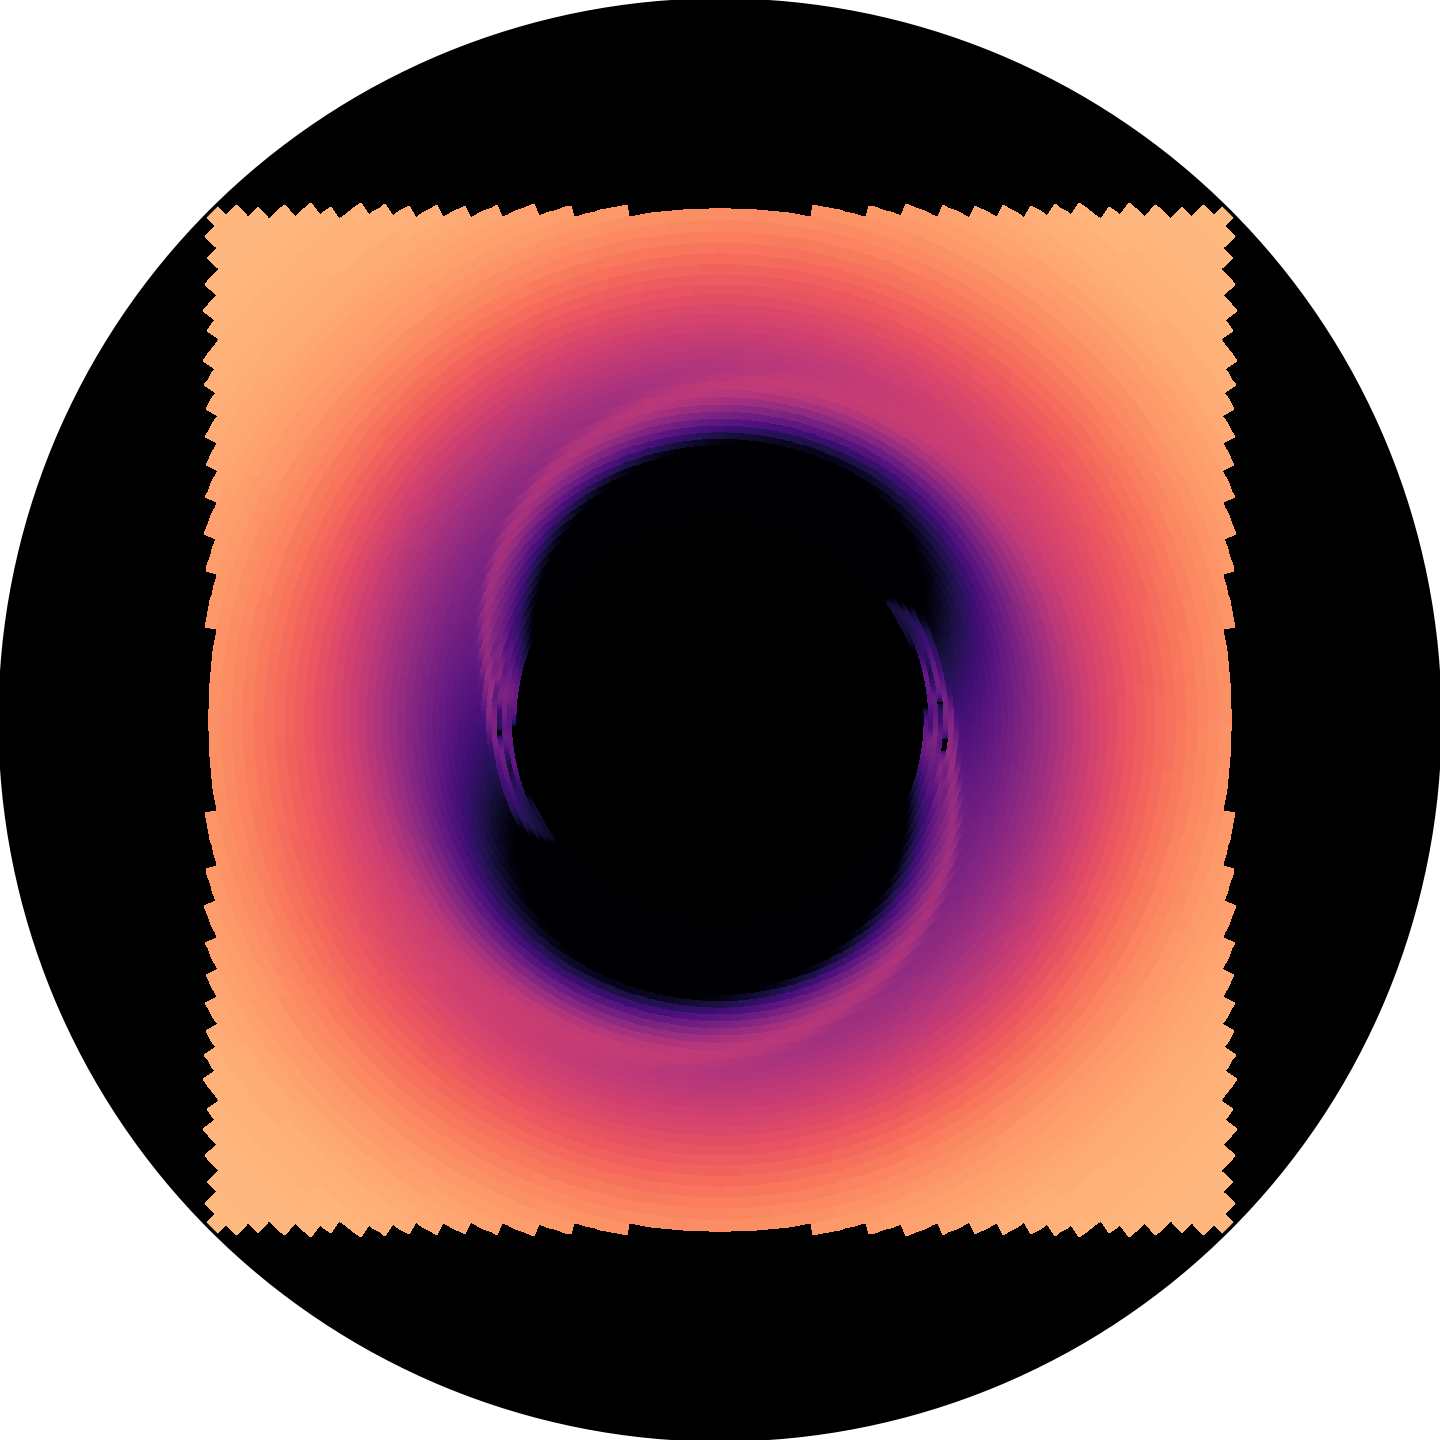
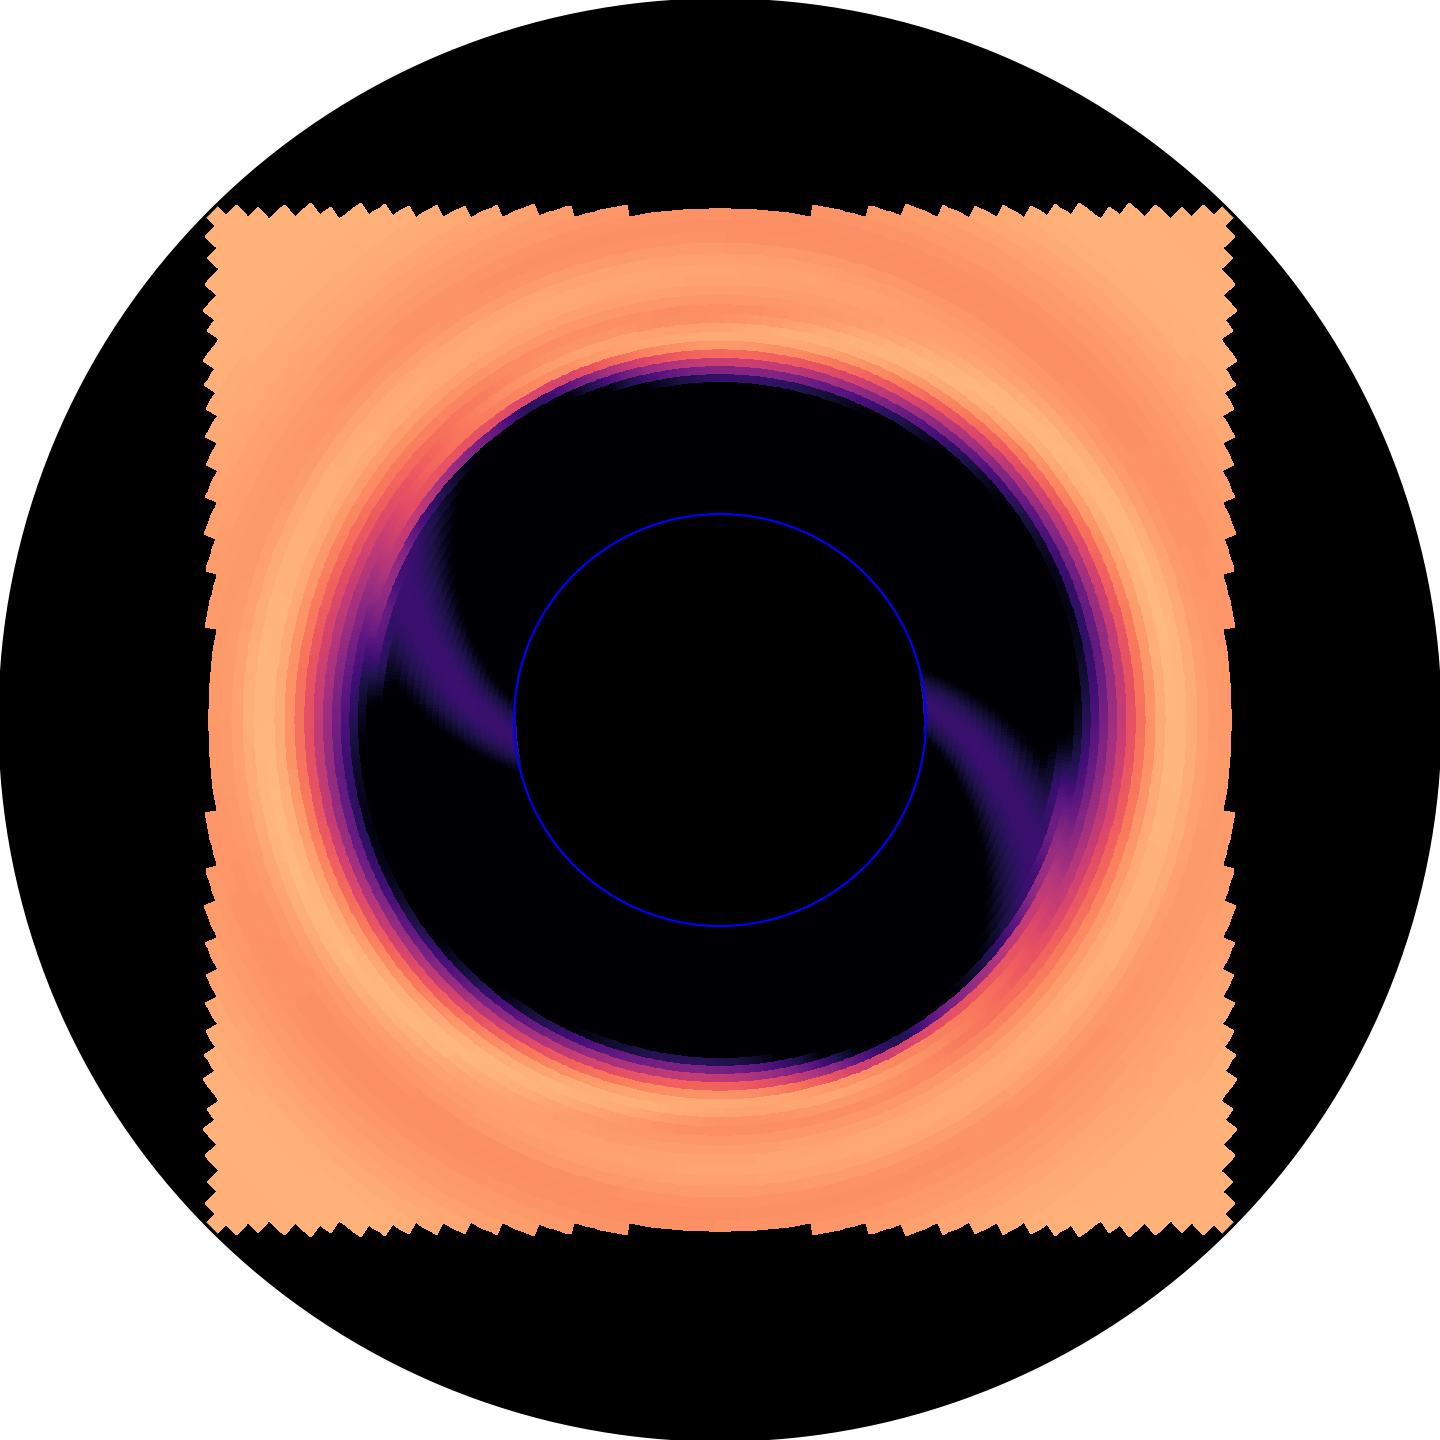
binary eccentricity vector diagnostic

Changed region(s): [[0.1562, 0.1562, 0.8438, 0.8438]]

diff --git a/Binary.py b/Binary.py
@@ -16,19 +16,19 @@ class Binary(HD_2D):
         self.eps = 0.05 * self.a  # gravitational softening
         self.omega_B = 1
         if coords == "cartesian":
-            self.bh1_x, self.bh1_y = self.a / 2, 0
-            self.bh2_x, self.bh2_y = -self.a / 2, 0
+            self.x_bh1, self.y_bh1 = self.a / 2, 0
+            self.x_bh2, self.y_bh2 = -self.a / 2, 0
         elif coords == "polar":
-            self.bh1_r, self.bh1_theta = self.a / 2, 0
-            self.bh2_r, self.bh2_theta = self.a / 2, np.pi
+            self.r_bh1, self.theta_bh1 = self.a / 2, 0
+            self.r_bh2, self.theta_bh2 = self.a / 2, np.pi
         self.ts = []
         self.accr_1 = []
         self.accr_2 = []
-        nu = 1e-3 * self.a ** 2 * self.omega_B
+        nu = 1e-3 * (self.a ** 2) * self.omega_B
 
         super().__init__(gamma, nu=nu, coords=coords, resolution=resolution, x1_range=x1_range,
                          x2_range=x2_range, solver=solver, logspace=logspace, high_space=high_space)
-
+        
         if self.coords == "cartesian":
             self.setup_cartesian()
 
@@ -46,11 +46,12 @@ class Binary(HD_2D):
     def c_s(self, r=None, theta=None):
         if r is None:
             r, theta = self.grid[:, :, 0], self.grid[:, :, 1]
-        dist1 = np.sqrt(r ** 2 + self.bh1_r ** 2 - 2 * r *
-                        self.bh1_r * np.cos(theta - self.bh1_theta))
-        dist2 = np.sqrt(r ** 2 + self.bh2_r ** 2 - 2 * r *
-                        self.bh2_r * np.cos(theta - self.bh2_theta))
-        return np.sqrt((self.G * (self.M / 2) / np.sqrt(dist1 ** 2 + self.eps ** 2) + self.G * (self.M / 2) / np.sqrt(dist2 ** 2 + self.eps ** 2)) / (self.mach ** 2))
+        dist1 = np.sqrt(r ** 2 + self.r_bh1 ** 2 - 2 * r *
+                        self.r_bh1 * np.cos(theta - self.theta_bh1))
+        dist2 = np.sqrt(r ** 2 + self.r_bh2 ** 2 - 2 * r *
+                        self.r_bh2 * np.cos(theta - self.theta_bh2))
+        cs = np.sqrt((self.G * (self.M / 2) / np.sqrt(dist1 ** 2 + self.eps ** 2) + self.G * (self.M / 2) / np.sqrt(dist2 ** 2 + self.eps ** 2)) / (self.mach ** 2))
+        return cs
 
     def gaussian_kernel(self, r):
         A, Delta = 10, self.a / 50
@@ -78,13 +79,13 @@ class Binary(HD_2D):
         # update black hole positions
         delta = np.pi
         if self.coords == "cartesian":
-            self.bh1_x = (self.a / 2) * np.cos(self.omega_B * t)
-            self.bh1_y = (self.a / 2) * np.sin(self.omega_B * t)
-            self.bh2_x = (self.a / 2) * np.cos(self.omega_B * t + delta)
-            self.bh2_y = (self.a / 2) * np.sin(self.omega_B * t + delta)
+            self.x_bh1 = (self.a / 2) * np.cos(self.omega_B * t)
+            self.y_bh1 = (self.a / 2) * np.sin(self.omega_B * t)
+            self.x_bh2 = (self.a / 2) * np.cos(self.omega_B * t + delta)
+            self.y_bh2 = (self.a / 2) * np.sin(self.omega_B * t + delta)
         elif self.coords == "polar":
-            self.bh1_theta = self.omega_B * t
-            self.bh2_theta = self.omega_B * t + delta
+            self.theta_bh1 = (self.omega_B * t) % (2 * np.pi)
+            self.theta_bh2 = (self.omega_B * t + delta) % (2 * np.pi)
 
         # set buffer velocities
         self.buffer()
@@ -119,7 +120,7 @@ class Binary(HD_2D):
         omega = ((omega_naught ** -4) + (self.omega_B ** -4)) ** (-1/4)
         v_theta = omega * r
 
-        p = rho * (self.c_s() ** 2) / self.gamma
+        p = rho * (self.c_s() ** 2)
 
         self.U = np.array([
             rho,
@@ -128,15 +129,16 @@ class Binary(HD_2D):
             E(self.gamma, rho, p, v_r, v_theta)
         ]).transpose((1, 2, 0))
 
-        def BH_gravity(U, bh_r, bh_theta):
+        def BH_gravity(U, r_bh, theta_bh):
             # distance from each zone to bh
-            delta_theta = theta - bh_theta
-            dist = np.sqrt(r ** 2 + bh_r ** 2 - 2 * r *
-                           bh_r * np.cos(delta_theta))
+            delta_theta = theta - theta_bh
+            delta_theta = (delta_theta + np.pi) % (2 * np.pi) - np.pi
+            dist = np.sqrt(r ** 2 + r_bh ** 2 - 2 * r *
+                           r_bh * np.cos(delta_theta))
             g = -self.G * (self.M / 2) / (dist ** 2 + self.eps ** 2)
 
-            g_r = g * (r - bh_r * np.cos(delta_theta)) / dist
-            g_theta = g * (bh_r * np.sin(delta_theta)) / dist
+            g_r = g * (r - r_bh * np.cos(delta_theta)) / dist
+            g_theta = g * (r_bh * np.sin(delta_theta)) / dist
 
             S = np.zeros_like(U)
             rho, u, v, p = get_prims(self.gamma, U)
@@ -148,7 +150,7 @@ class Binary(HD_2D):
             return S
 
         def gravity(U):
-            return BH_gravity(U, self.bh1_r, self.bh1_theta) + BH_gravity(U, self.bh2_r, self.bh2_theta)
+            return BH_gravity(U, self.r_bh1, self.theta_bh1) + BH_gravity(U, self.r_bh2, self.theta_bh2)
 
         self.add_source(gravity)
 
@@ -174,10 +176,11 @@ class Binary(HD_2D):
             E(self.gamma, rho, p, u, v)
         ]).transpose((1, 2, 0))
 
-        def BH_gravity(U, bh_x, bh_y):
-            dx, dy = x - bh_x, y - bh_y
+        def BH_gravity(U, x_bh, y_bh):
+            dx, dy = x - x_bh, y - y_bh
             dist = np.sqrt(dx ** 2 + dy ** 2)  # distance from each zone to bh
-            g = - 2 * np.pi * self.G * (self.M / 2) / (dist ** 2 + self.eps ** 2)
+            g = - 2 * np.pi * self.G * \
+                (self.M / 2) / (dist ** 2 + self.eps ** 2)
 
             g_x, g_y = (dx / (dist + self.eps)) * \
                 g, (dy / (dist + self.eps)) * g
@@ -191,7 +194,7 @@ class Binary(HD_2D):
             return S
 
         def gravity(U):
-            return BH_gravity(U, self.bh1_x, self.bh1_y) + BH_gravity(U, self.bh2_x, self.bh2_y)
+            return BH_gravity(U, self.x_bh1, self.y_bh1) + BH_gravity(U, self.x_bh2, self.y_bh2)
 
         self.add_source(gravity)
 
@@ -205,7 +208,7 @@ class Binary(HD_2D):
             return S
 
         def kernel(U):
-            return BH_kernel(U, self.bh1_x, self.bh1_y) + BH_kernel(U, self.bh2_x, self.bh2_y)
+            return BH_kernel(U, self.x_bh1, self.y_bh1) + BH_kernel(U, self.x_bh2, self.y_bh2)
 
         self.add_source(kernel)
 
@@ -226,7 +229,7 @@ class Binary(HD_2D):
     def get_accr1_rate(self):
         g = self.num_g
         x, y = self.grid[:, :, 0], self.grid[:, :, 1]
-        dx, dy = x - self.bh1_x, y - self.bh1_y
+        dx, dy = x - self.x_bh1, y - self.y_bh1
         r = np.sqrt(dx ** 2 + dy ** 2)
         rho = self.U[:, :, 0]
         rate = np.sum(np.minimum(
@@ -237,7 +240,7 @@ class Binary(HD_2D):
     def get_accr2_rate(self):
         g = self.num_g
         x, y = self.grid[:, :, 0], self.grid[:, :, 1]
-        dx, dy = x - self.bh2_x, y - self.bh2_y
+        dx, dy = x - self.x_bh2, y - self.y_bh2
         r = np.sqrt(dx ** 2 + dy ** 2)
         rho = self.U[:, :, 0]
         rate = np.sum(np.minimum(
@@ -247,12 +250,12 @@ class Binary(HD_2D):
 
     def get_torque1(self):
         g = self.num_g
-        rho = self.U[:, :, 0][g:-g, g:-g]
+        rho = self.U[g:-g, g:-g, 0]
 
         if self.coords == "cartesian":
             x, y = self.grid[:, :, 0], self.grid[:, :, 1]
-            bh_x, bh_y = self.bh1_x, self.bh1_y
-            dx, dy = x - bh_x, y - bh_y
+            x_bh, y_bh = self.x_bh1, self.y_bh1
+            dx, dy = x - x_bh, y - y_bh
             r = np.sqrt(dx ** 2 + dy ** 2)  # distance from each zone to bh
             dA = self.dx1 * self.dx2
             Fg = (self.G * (self.M / 2) / (r ** 2 + self.eps ** 2)) * rho * dA
@@ -264,10 +267,11 @@ class Binary(HD_2D):
             T = np.sum((self.a / 2) * Fg_theta)
         elif self.coords == "polar":
             r, theta = self.grid[:, :, 0], self.grid[:, :, 1]
-            bh_r, bh_theta = self.bh1_r, self.bh1_theta
-            delta_theta = theta - bh_theta
-            dist = np.sqrt(r ** 2 + bh_r ** 2 - 2 * r *
-                           bh_r * np.cos(delta_theta))
+            r_bh, theta_bh = self.r_bh1, self.theta_bh1
+            delta_theta = theta - theta_bh
+            delta_theta = (delta_theta + np.pi) % (2 * np.pi) - np.pi
+            dist = np.sqrt(r ** 2 + r_bh ** 2 - 2 * r *
+                           r_bh * np.cos(delta_theta))
             R_interf, _ = np.meshgrid(self.x1_interf, self.x2, indexing="ij")
             x1_l, x1_r = R_interf[:-1, :], R_interf[1:, :]
             dx1 = x1_r - x1_l
@@ -275,7 +279,7 @@ class Binary(HD_2D):
             dA = r * dx1 * dx2  # dA = rdrdtheta
 
             Fg = (self.G * (self.M / 2) / (dist ** 2 + self.eps ** 2)) * rho * dA
-            Fg_theta = Fg * (bh_r * np.sin(delta_theta)) / dist 
+            Fg_theta = Fg * (r_bh * np.sin(delta_theta)) / dist
             T = np.sum((self.a / 2) * Fg_theta)
 
         return T
@@ -286,8 +290,8 @@ class Binary(HD_2D):
 
         if self.coords == "cartesian":
             x, y = self.grid[:, :, 0], self.grid[:, :, 1]
-            bh_x, bh_y = self.bh2_x, self.bh2_y
-            dx, dy = x - bh_x, y - bh_y
+            x_bh, y_bh = self.x_bh2, self.y_bh2
+            dx, dy = x - x_bh, y - y_bh
             r = np.sqrt(dx ** 2 + dy ** 2)  # distance from each zone to bh
             dA = self.dx1 * self.dx2
             Fg = (self.G * (self.M / 2) / (r ** 2 + self.eps ** 2)) * rho * dA
@@ -300,10 +304,11 @@ class Binary(HD_2D):
             T = np.sum((self.a / 2) * Fg_theta)
         elif self.coords == "polar":
             r, theta = self.grid[:, :, 0], self.grid[:, :, 1]
-            bh_r, bh_theta = self.bh2_r, self.bh2_theta
-            delta_theta = theta - bh_theta
-            dist = np.sqrt(r ** 2 + bh_r ** 2 - 2 * r *
-                           bh_r * np.cos(delta_theta))
+            r_bh, theta_bh = self.r_bh2, self.theta_bh2
+            delta_theta = theta - theta_bh
+            delta_theta = (delta_theta + np.pi) % (2 * np.pi) - np.pi
+            dist = np.sqrt(r ** 2 + r_bh ** 2 - 2 * r *
+                           r_bh * np.cos(delta_theta))
             R_interf, _ = np.meshgrid(self.x1_interf, self.x2, indexing="ij")
             x1_l, x1_r = R_interf[:-1, :], R_interf[1:, :]
             dx1 = x1_r - x1_l
@@ -311,7 +316,30 @@ class Binary(HD_2D):
             dA = r * dx1 * dx2  # dA = rdrdtheta
 
             Fg = (self.G * (self.M / 2) / (dist ** 2 + self.eps ** 2)) * rho * dA
-            Fg_theta = Fg * (bh_r * np.sin(delta_theta)) / dist 
+            Fg_theta = Fg * (r_bh * np.sin(delta_theta)) / dist
             T = np.sum((self.a / 2) * Fg_theta)
 
         return T
+
+    # TODO: cartesian coordinate version
+    def get_eccentricity(self):
+        g = self.num_g
+        rho, vr, vtheta, p = get_prims(self.gamma, self.U[g:-g, g:-g])
+        r, theta = self.grid[:, :, 0], self.grid[:, :, 1]
+        R_interf, _ = np.meshgrid(self.x1_interf, self.x2, indexing="ij")
+        x1_l, x1_r = R_interf[:-1, :], R_interf[1:, :]
+        dx1 = x1_r - x1_l
+        dx2 = self.x2[1] - self.x2[0]
+        dA = r * dx1 * dx2
+        e_x = (r * vr * vtheta / (self.G * self.M)) * np.sin(theta) + \
+            (((r * vtheta ** 2) / self.G * self.M) - 1) * np.cos(theta)
+        e_y = -(r * vr * vtheta / (self.G * self.M)) * np.cos(theta) + \
+            (((r * vtheta ** 2) / self.G * self.M) - 1) * np.sin(theta)
+
+        bounds = r >= self.a & r <= 6 * self.a
+        ec_x = np.sum(e_x[bounds] * rho[bounds] * dA[bounds]) / \
+            (35 * np.pi * self.Sigma_0 * (self.a ** 2))
+        ec_y = np.sum(e_y[bounds] * rho[bounds] * dA[bounds]) / \
+            (35 * np.pi * self.Sigma_0 * (self.a ** 2))
+
+        return (ec_x, ec_y)

diff --git a/HD/solvers.py b/HD/solvers.py
@@ -13,6 +13,10 @@ class Solver(ABC):
         self.coords = coords
         self.x1, self.x2 = x1, x2
         self.x1_interf, self.x2_interf = x1_interf, x2_interf
+        self.x1_g = np.pad(self.x1, (1, 1), mode="constant", constant_values=(
+            self.x1[0] - (self.x1_interf[1] - self.x1_interf[0]), self.x1[-1] + (self.x1_interf[-1] - self.x1_interf[-2])))
+        self.x2_g = np.pad(self.x2, (1, 1), mode="constant", constant_values=(
+            self.x2[0] - (self.x2_interf[1] - self.x2_interf[0]), self.x2[-1] + (self.x2_interf[-1] - self.x2_interf[-2])))
         self.res_x1, self.res_x2 = res
         self.high_order = high_order
 
@@ -115,19 +119,15 @@ class Solver(ABC):
             else:
                 du = (u[g:-g, (g):-(g-1)] - u[g:-g, (g-1):-(g)]) / (dy)
         elif self.coords == "polar":
-            dR = np.diff(self.x1, prepend=0, append=0)
             # try making mesh grid and get r from that to use in denominator of theta derivative
             dtheta = self.x2[1] - self.x2[0]
             if x1:
-                du = np.diff(u[(g-1):-(g-1), g:-g], axis=0) / \
-                    (dR[:, np.newaxis])
-                du[0, :] = np.zeros(len(self.x2))
-                du[-1, :] = np.zeros(len(self.x2))
+                X1, _ = np.meshgrid(self.x1_g, self.x2, indexing="ij")
+                dR = np.diff(X1, axis=0)
+                du = np.diff(u[(g-1):-(g-1), g:-g], axis=0) / dR
             else:
-                du = np.diff(u[g:-g, (g-1):-(g-1)], axis=1) / \
-                    (self.x1[:, np.newaxis] * dtheta)
-                du[:, 0] = np.zeros(len(self.x1))
-                du[:, -1] = np.zeros(len(self.x1))
+                X1, _ = np.meshgrid(self.x1, self.x2_interf, indexing="ij")
+                du = np.diff(u[g:-g, (g-1):-(g-1)], axis=1) / (X1 * dtheta)
         return du
 
     def viscosity(self, rho, u, v):
@@ -176,13 +176,8 @@ class Solver(ABC):
 
     def interface_flux(self, U):
         g = self.num_g
-        # x1 with one ghost layer
-        x1_g = np.pad(self.x1, (1, 1), mode="constant", constant_values=(
-            self.x1[0] - (self.x1_interf[1] - self.x1_interf[0]), self.x1[-1] + (self.x1_interf[-1] - self.x1_interf[-2])))
-        x2_g = np.pad(self.x2, (1, 1), mode="constant", constant_values=(
-            self.x2[0] - (self.x2_interf[1] - self.x2_interf[0]), self.x2[-1] + (self.x2_interf[-1] - self.x2_interf[-2])))
-        X1, X2 = np.meshgrid(x1_g, x2_g, indexing="ij")
-        # X1, X2 = X1[:, :, np.newaxis], X2[:, :, np.newaxis]
+        
+        X1, X2 = np.meshgrid(self.x1_g, self.x2_g, indexing="ij")
 
         if self.high_order:
             U_ll, U_lr, U_rl, U_rr, F_ll, F_lr, F_rl, F_rr = self.PLM_states(

diff --git a/plotting.py b/plotting.py
@@ -5,8 +5,8 @@ from argparse import ArgumentParser
 import numpy as np
 import matplotlib.pyplot as plt
 import matplotlib.animation as animation
-plt.rcParams['figure.dpi'] = 150
-plt.rcParams['savefig.dpi'] = 150
+plt.rcParams['figure.dpi'] = 300
+plt.rcParams['savefig.dpi'] = 300
 
 parser = ArgumentParser(description="Plot data from an .hdf file.")
 
@@ -40,7 +40,7 @@ with h5py.File(PATH, "r") as f:
         data = f[var][...]
         
     if len(data.shape) == 1:
-        plt.scatter(t[t <= 2 * np.pi] / (2 * np.pi), data[t <= 2 * np.pi], linewidth=1, s=0.5, c="black")
+        plt.scatter(t / (2 * np.pi), data, linewidth=1, s=0.5, c="black")
         
     plt.title("Gravitational Torque")
     plt.xlabel("time (orbits)")

diff --git a/hydro.py b/hydro.py
@@ -8,11 +8,11 @@ from MHD.MHD import MHD
 
 if __name__ == "__main__":
 
-    sim = Binary(gamma=5/3, coords="polar", resolution=(100, 600),
+    sim = Binary(gamma=1.01, coords="polar", resolution=(100, 600),
                  x1_range=(1, 10), x2_range=(0, 2 * np.pi), logspace=True)
     sim.set_bcs((Boundary.OUTFLOW, Boundary.OUTFLOW),
                 (Boundary.PERIODIC, Boundary.PERIODIC))
-    sim.run(T=2 * np.pi, filename="binary (lala)", save_interval=0.04)
+    sim.run(T=10 * 2 * np.pi, filename="binary", save_interval=0.1)
 
     # sim = MHD(gamma=2, resolution=(800, 1, 1), xrange=(-1, 1))
     # sim.shock_tube()
